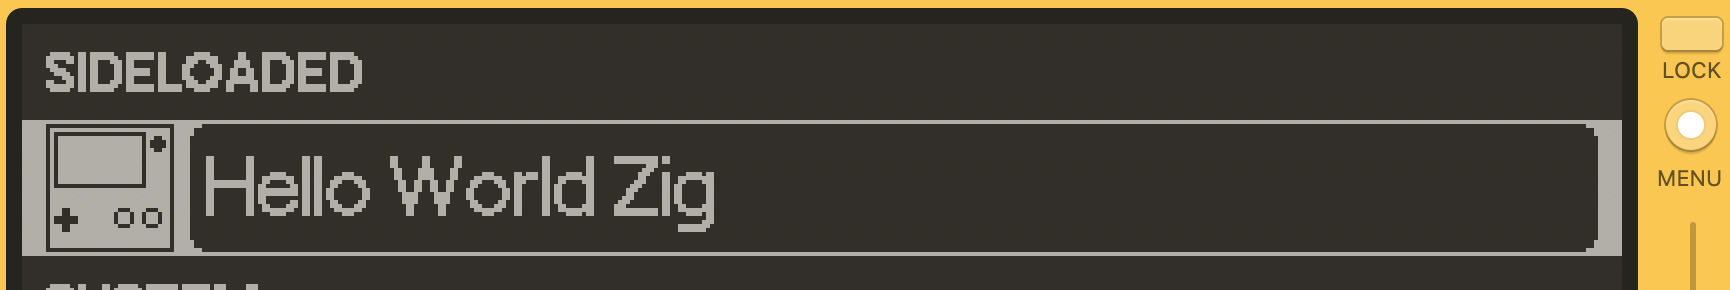
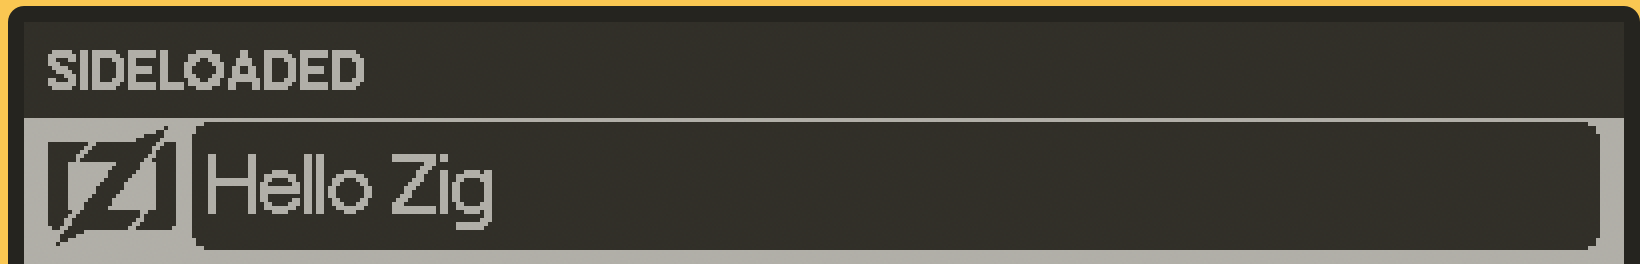
See Aug 21, 2024 changes in CHANGELOG.txt

Changed region(s): [[0.0, 0.0, 1.0, 1.0], [0.0, 0.1515, 0.2488, 0.3636]]

diff --git a/README.md b/README.md
@@ -24,6 +24,7 @@ Write your [Playdate](https://play.date) game in [Zig](https://ziglang.org)!  Us
 - `src/playdate_api_definitions.zig` -- Contains all of the Playdate API code.  This is 1-to-1 with [Playdate's C API](https://sdk.play.date/2.0.0/Inside%20Playdate%20with%20C.html)
 - `main.zig` -- Entry point for your code!  Contains example code that prints "Hello from Zig!" and an draws an example image to the screen.
 - `panic_handler.zig` -- The default Zig panic handler will cause the simulator and hardware to crash without any error message. I wrote my own handler, so panics should now be handled gracefully with proper error messages.
+- `pdxinfo` -- This contains all of the metadata for your game.  Panic provides documentation for this file [here](https://sdk.play.date/2.5.0/Inside%20Playdate.html#pdxinfo).
 - `assets/` -- This folder will contain your assets and has an example image that is drawn to the screen in the example code in `main.zig`.
 
 ## Run Example Code
@@ -32,7 +33,7 @@ Write your [Playdate](https://play.date) game in [Zig](https://ziglang.org)!  Us
 1. Run `zig build run`.
     1. If there any errors, double check `PLAYDATE_SDK_PATH` is correctly set.
 1. You should now see simulator come up and look the [screenshot here](#screenshot).
-1. When you quit out to the home menu, change the home menu to view as list and you should see the "Hello World Zig" program with a custom icon [like here](#home-screen-list-view).
+1. When you quit out to the home menu, change the home menu to view as list and you should see the "Hello Zig" program with a custom icon [like here](#home-screen-list-view).
 1. Optionally, connect your Playdate to the comupter and upload to the device by going to `Device` -> `Upload Game to Device..` in the Playdate Simulator.
     1. It should load and run on the hardware as well!
 
